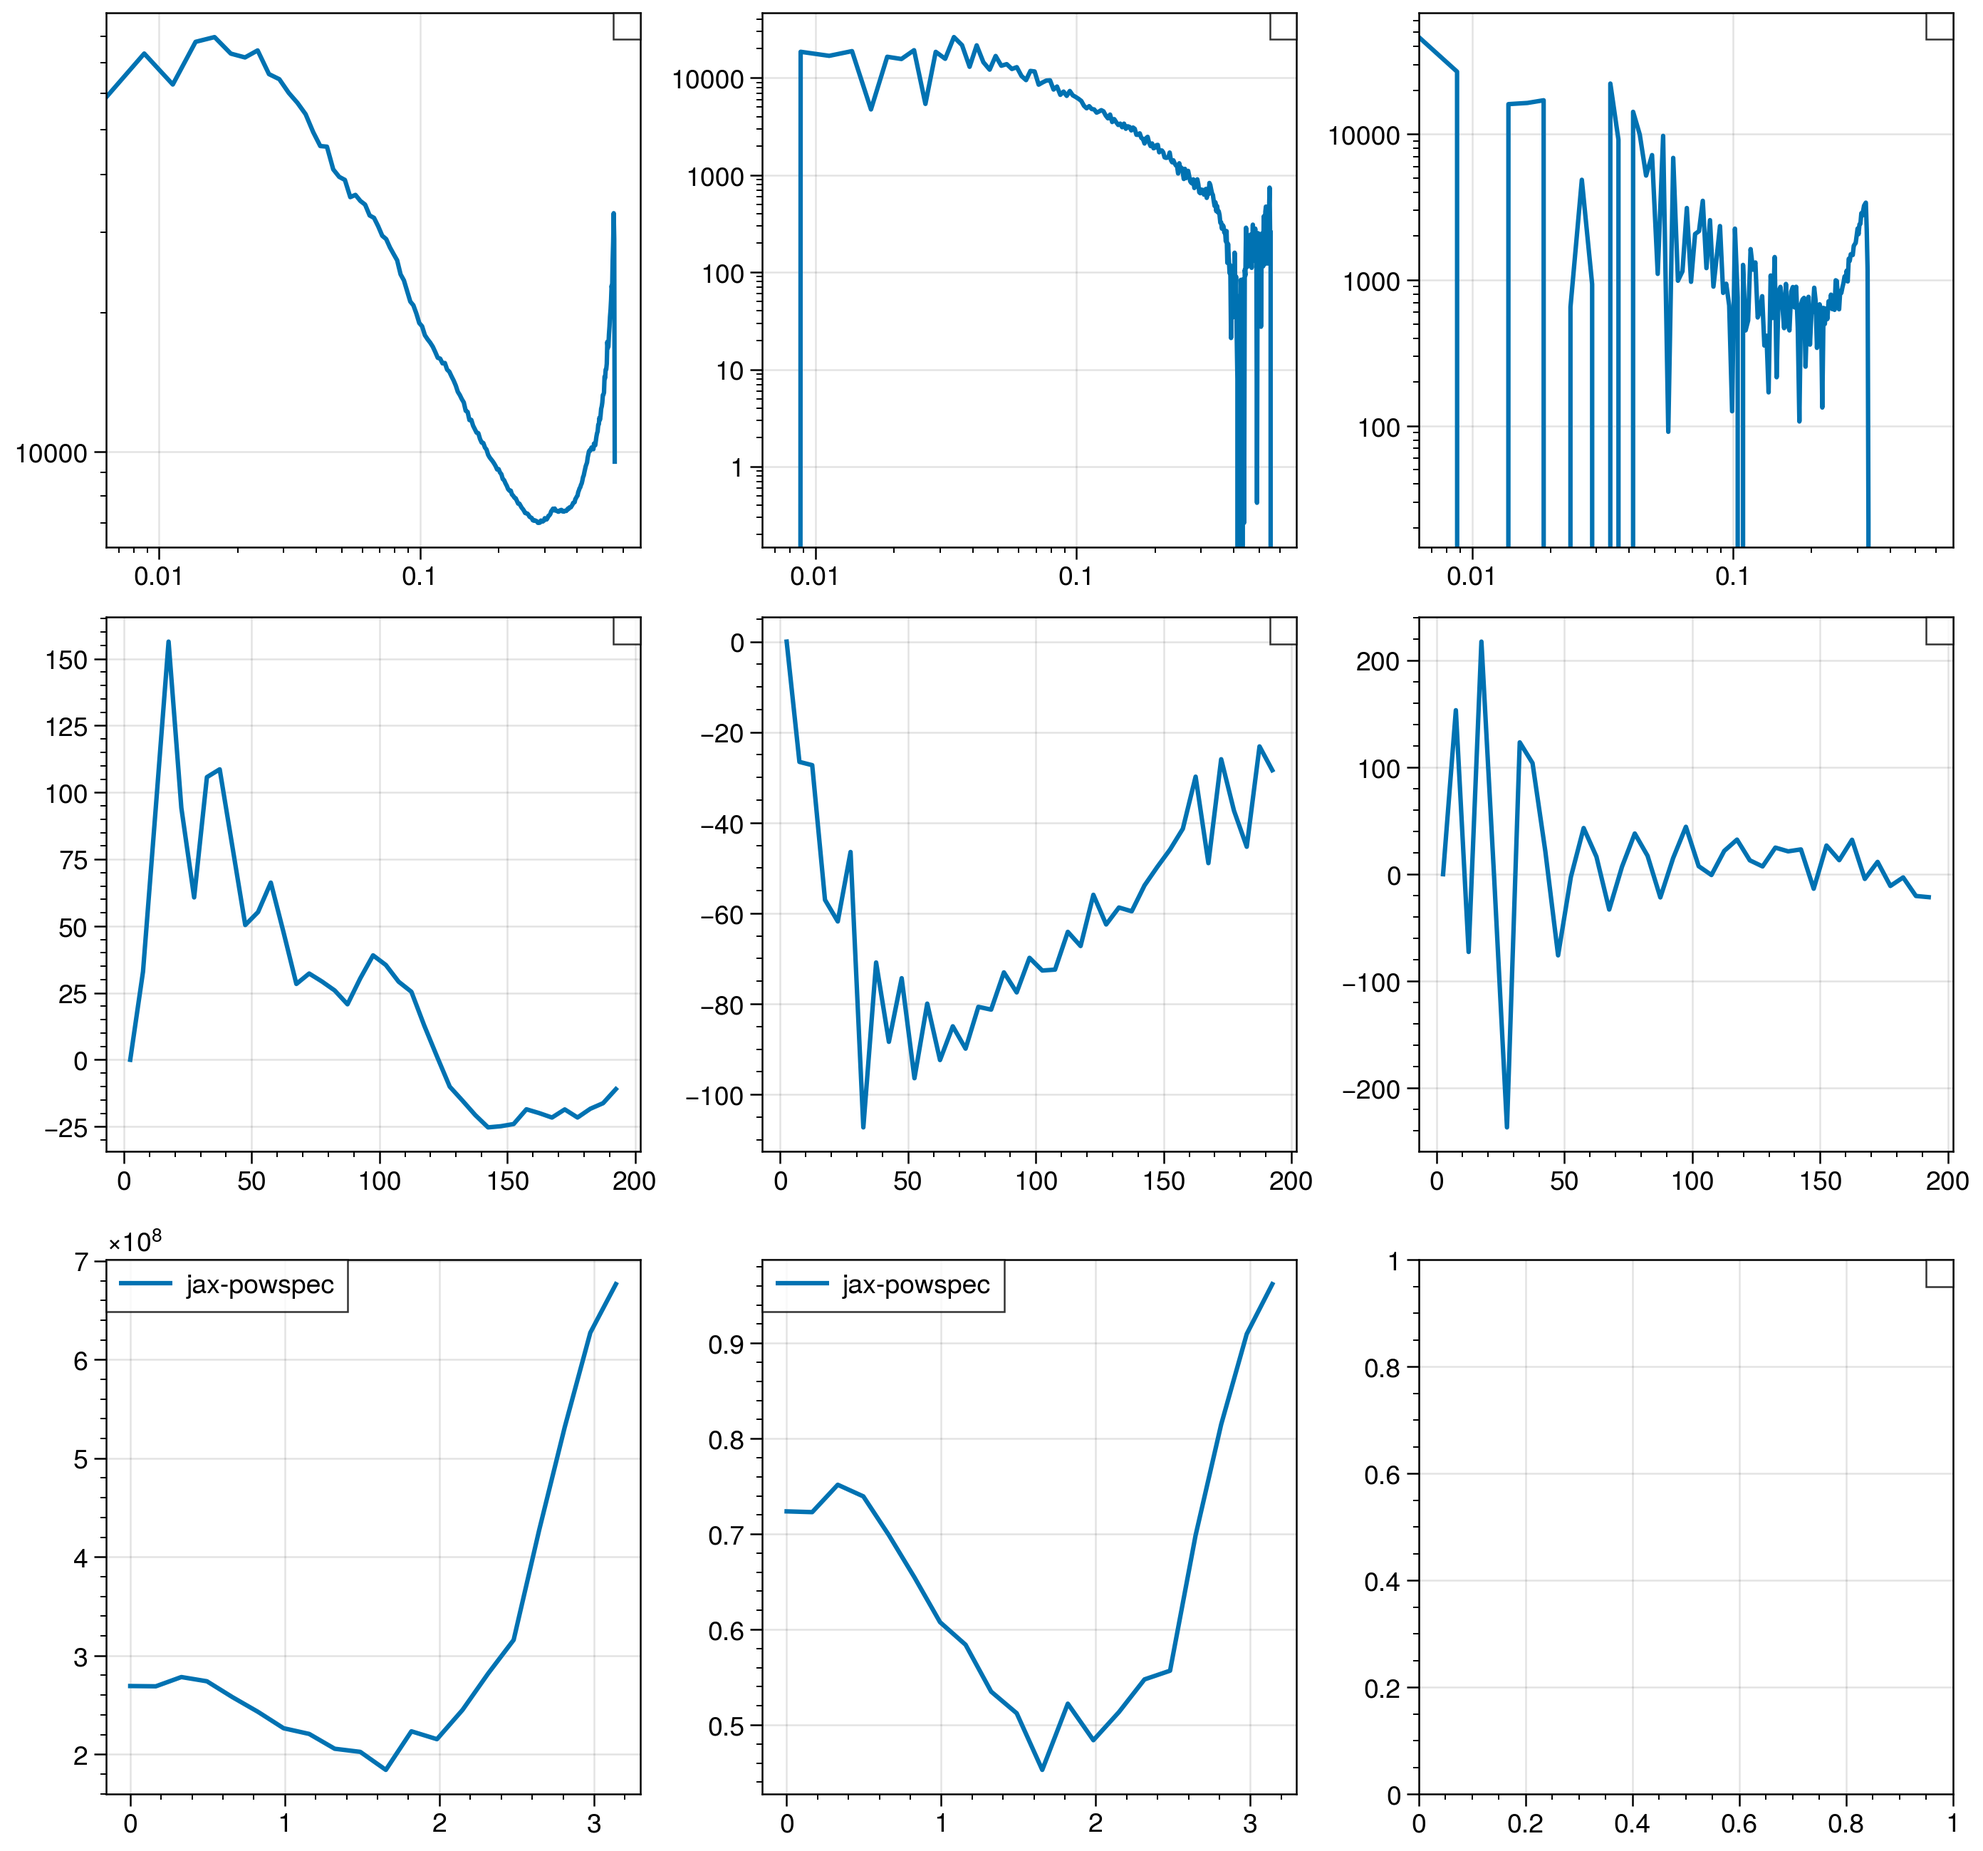
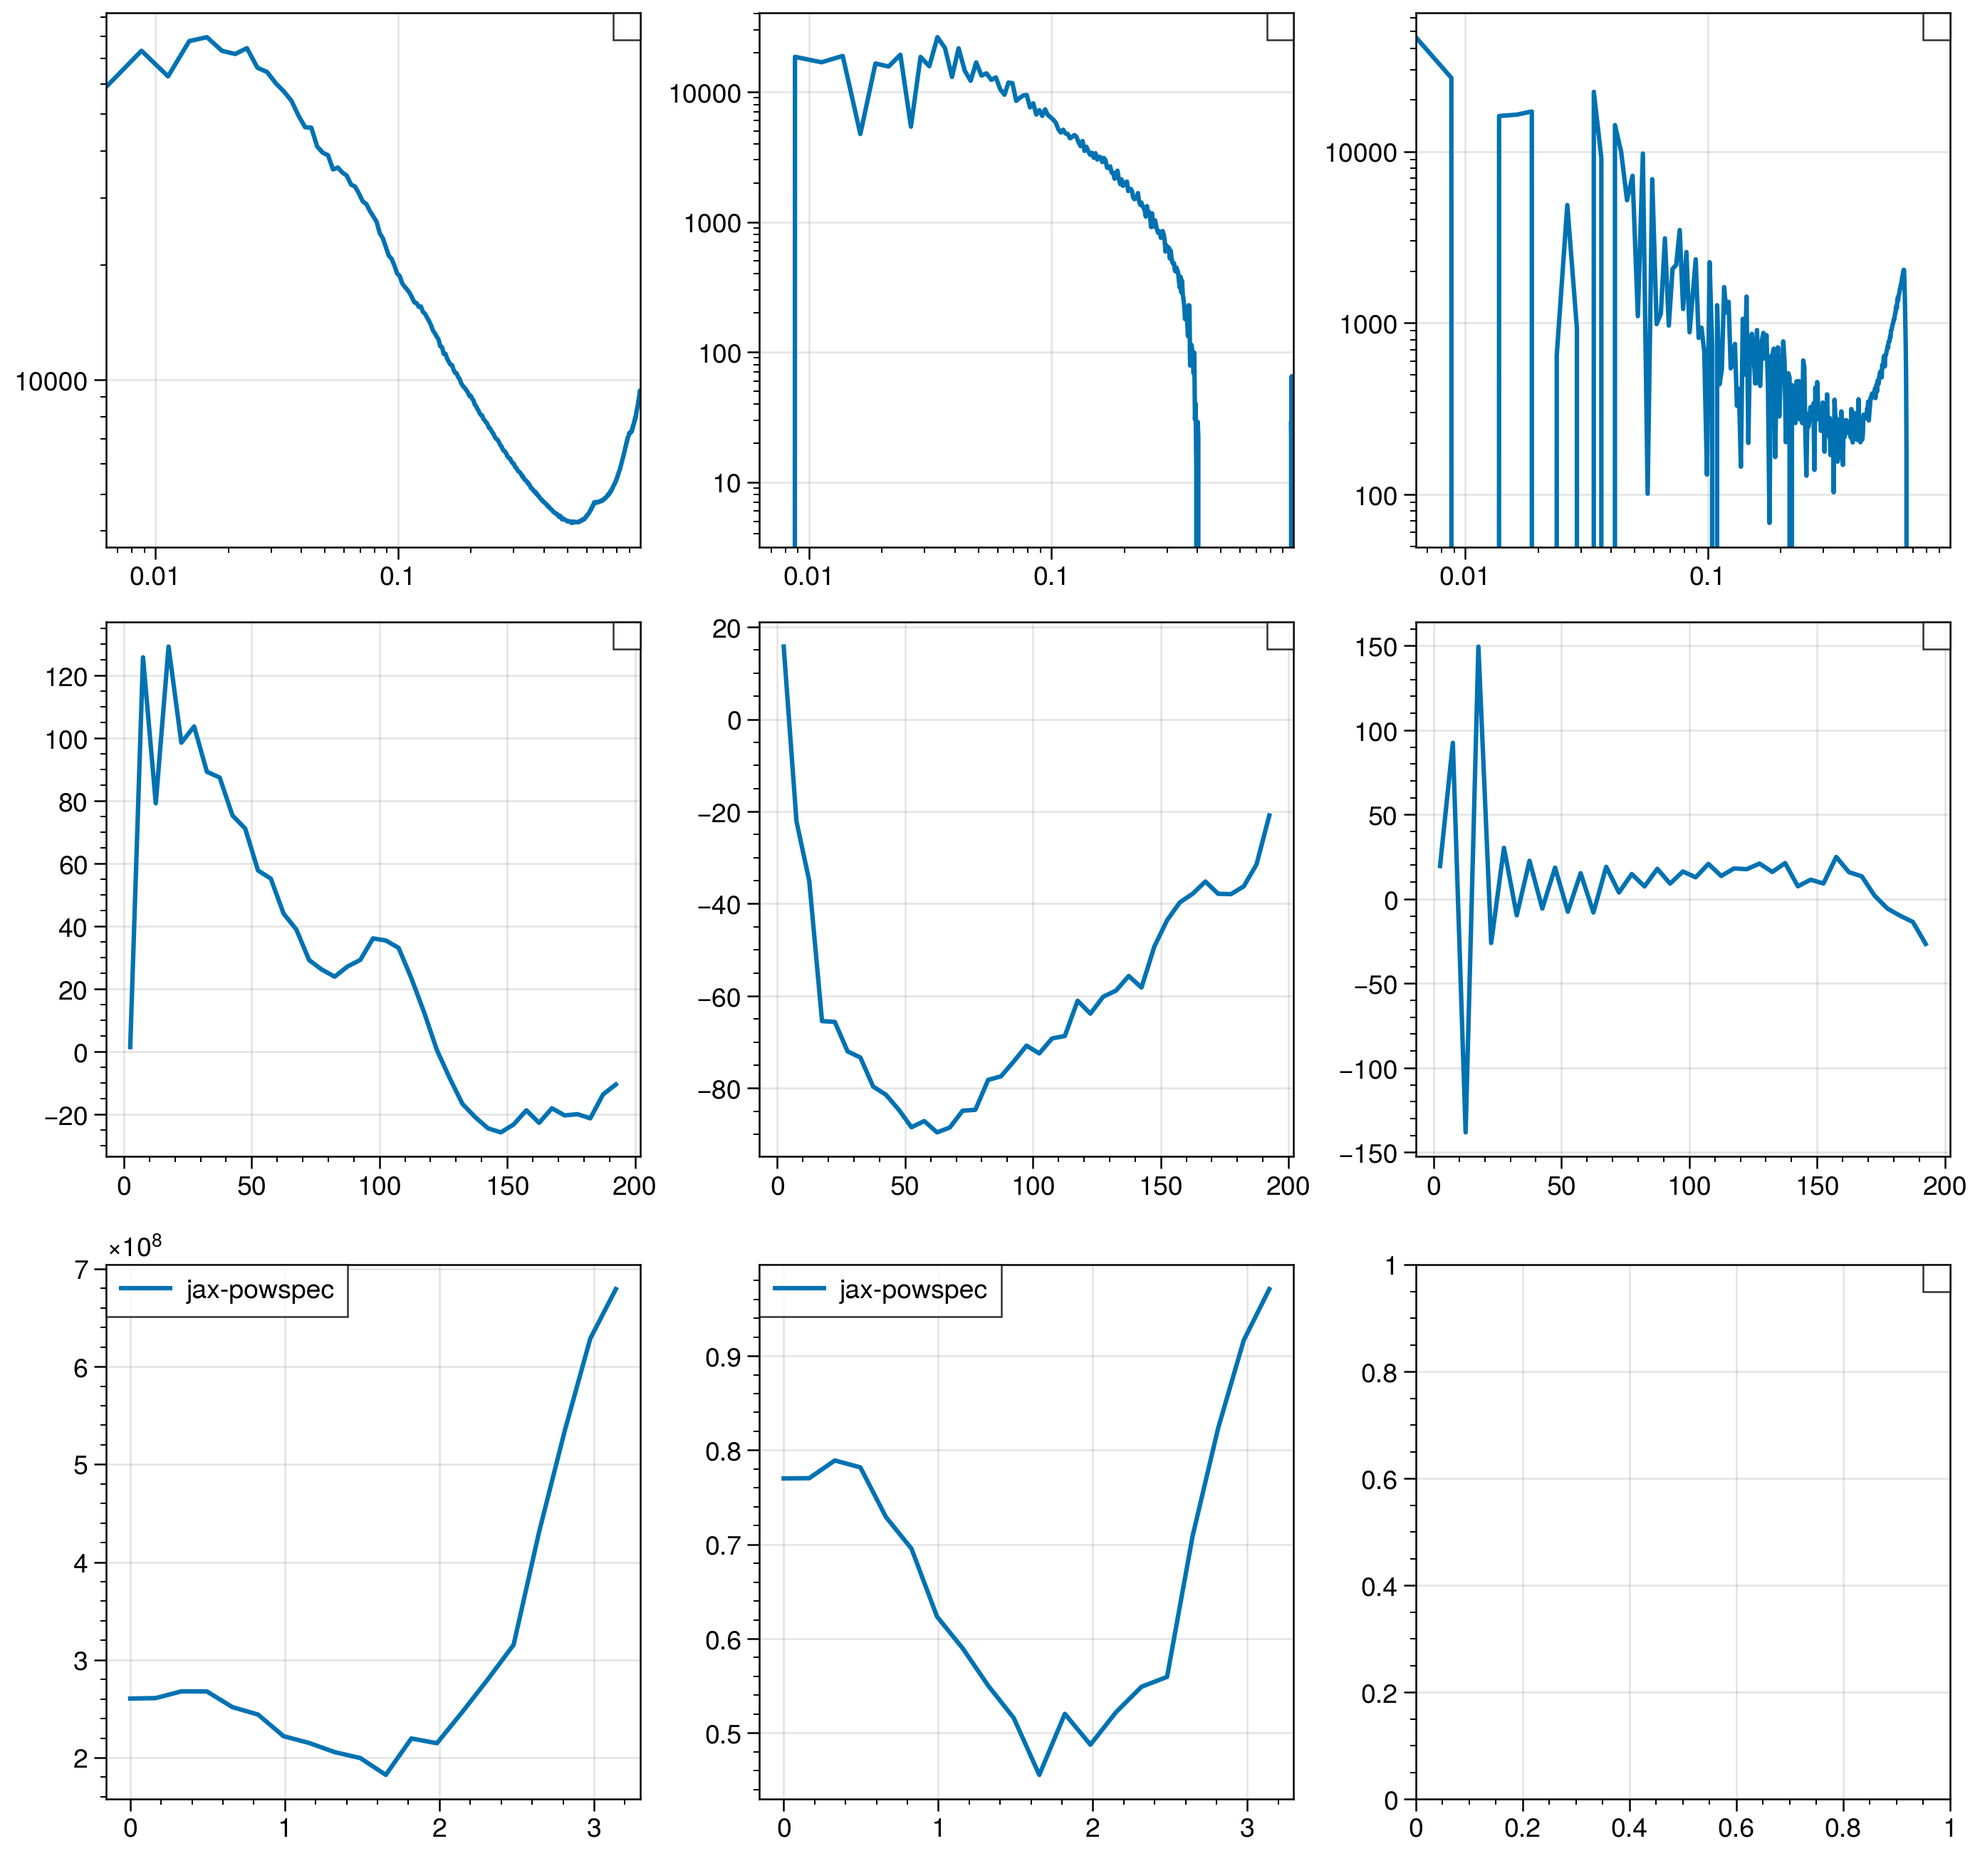
Function to compute all correlations at once

diff --git a/tests/all_corr.py b/tests/all_corr.py
@@ -16,7 +16,7 @@ from src.correlations import compute_all_correlations
 
 
 n_bins = 256
-box_size = 2500.
+box_size = 1000.
 key = jax.random.PRNGKey(42)
 key, subkey = jax.random.split(key)
 
@@ -48,7 +48,7 @@ print(f"MAS took {time.time() - s} s.", flush=True)
 
 k1, k2 = 0.1, 0.2
 theta = jnp.linspace(0, jnp.pi, 20)
-s_edges = jnp.arange(1e-3, 200, 2)
+s_edges = jnp.arange(1e-3, 200, 5)
 k_edges = jnp.arange(5e-3, 1, 2 * jnp.pi / box_size)
 s = time.time()
 k3D, Pk3D, Nmodes3D_pk, r3D, xi3D, Nmodes3D_xi, k_all, Pk, theta, B, Q = compute_all_correlations(delta, box_size, s_edges, k_edges, k1, k2, theta)
